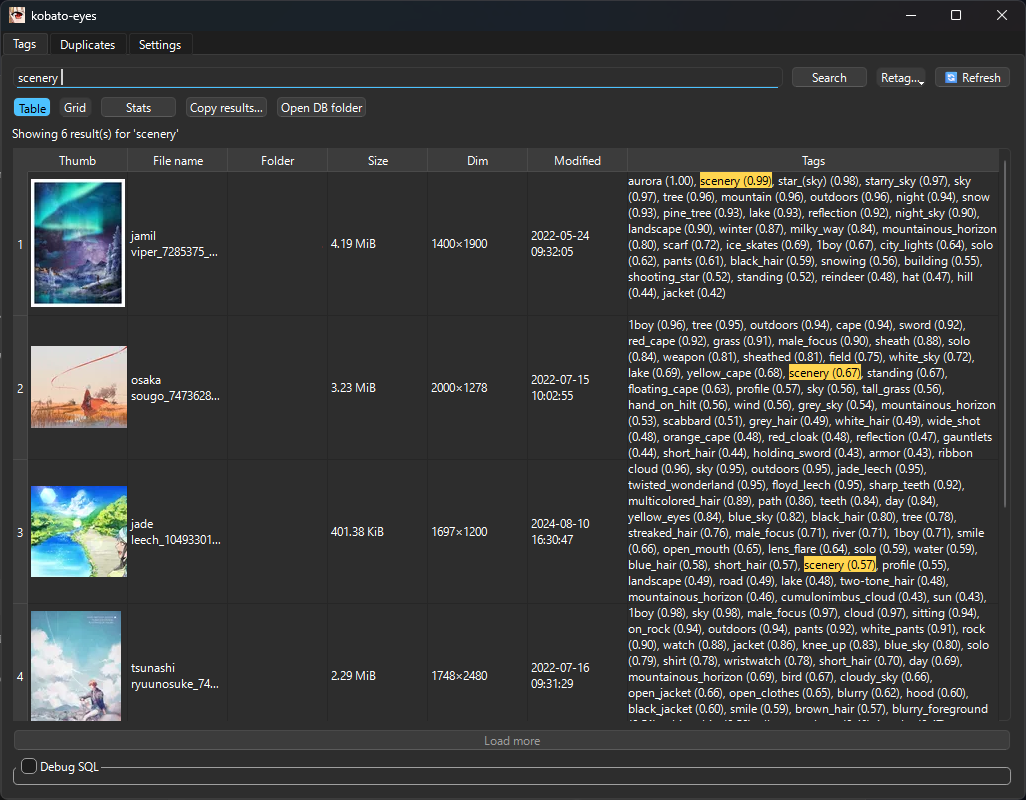
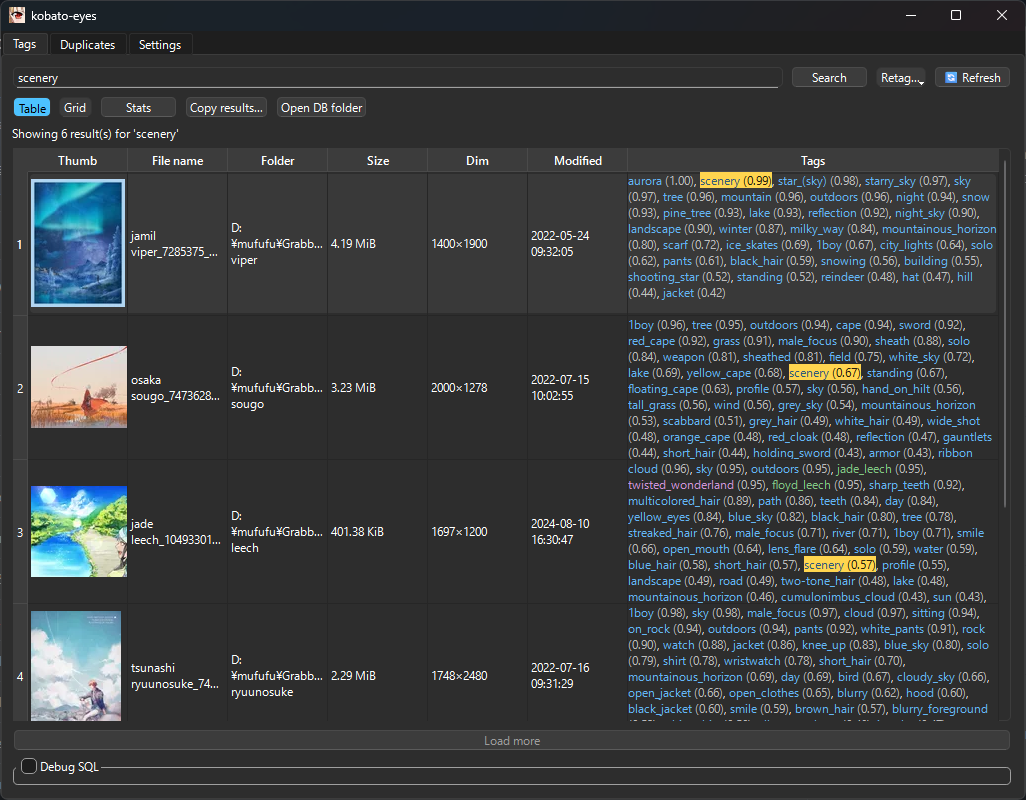
色味調整

diff --git a/src/ui/tags_tab.py b/src/ui/tags_tab.py
@@ -100,30 +100,15 @@ _PREFIXES = (
 )
 _CATEGORY_KEY_LOOKUP = build_category_lookup()
 _TAG_COLOR_MAP = {
-    TagCategory.GENERAL: "#64B5F6",
-    TagCategory.CHARACTER: "#81C784",
-    TagCategory.COPYRIGHT: "#CE93D8",
+    TagCategory.GENERAL: "#45A6F7",
+    TagCategory.CHARACTER: "#63CC69",
+    TagCategory.COPYRIGHT: "#C976D8",
 }
+_SCORE_COLOR = "rgba(255, 255, 255, 0.78)"
 _NEUTRAL_TAG_COLOR = "#90A4AE"
-_SCORE_COLOR = "rgba(255, 255, 255, 0.88)"
+_HIGHLIGHT_SCORE_COLOR = "rgba(0, 0, 0, 0.86)"
 _HIGHLIGHT_SCORE_SHADOW = "0 0 3px rgba(0, 0, 0, 0.6)"
 TagDisplayEntry = tuple[str, float, TagCategory | None]
-
-
-def _category_thresholds(settings: PipelineSettings) -> dict[TagCategory, float]:
-    th = {k.lower(): float(v) for k, v in (settings.tagger.thresholds or {}).items()}
-
-    def get(name, default=0.0):
-        return th.get(name, default)
-
-    return {
-        TagCategory.GENERAL: get("general"),
-        TagCategory.CHARACTER: get("character"),
-        TagCategory.COPYRIGHT: get("copyright"),
-        TagCategory.ARTIST: get("artist"),
-        TagCategory.META: get("meta"),
-        TagCategory.RATING: get("rating"),
-    }
 
 
 def _coerce_category(value: object) -> TagCategory | None:
@@ -219,6 +204,27 @@ def _category_color(category: TagCategory | None) -> str:
     return _TAG_COLOR_MAP.get(category, _NEUTRAL_TAG_COLOR)
 
 
+def _mix_hex(fg: str, bg: str, w: float) -> str:
+    """hex色を合成。w=1.0でfg、0.0でbg。"""
+    w = max(0.0, min(1.0, w))
+
+    def _c(h):
+        h = h.lstrip("#")
+        return int(h[0:2], 16), int(h[2:4], 16), int(h[4:6], 16)
+
+    fr, fg_, fb = _c(fg)
+    br, bg_, bb = _c(bg)
+    r = round(fr * w + br * (1 - w))
+    g = round(fg_ * w + bg_ * (1 - w))
+    b = round(fb * w + bb * (1 - w))
+    return f"#{r:02x}{g:02x}{b:02x}"
+
+
+def _darken_hex(hex_color: str, factor: float = 0.75) -> str:
+    """色を少し暗く。factorは元色の寄与率（0.7〜0.85あたり推奨）。"""
+    return _mix_hex(hex_color, "#000000", factor)
+
+
 def _render_tag_html(
     name: str,
     score: float,
@@ -232,11 +238,17 @@ def _render_tag_html(
     score_html = html.escape(f"({score:.2f})")
 
     if highlight:
-        score_style = f"color:{_SCORE_COLOR}; text-shadow:{_HIGHLIGHT_SCORE_SHADOW};"
+        # タグ名はカテゴリ色を維持、スコアは黒系。外側は背景のみ指定。
+        base = _category_color(category)  # ex. 緑/マゼンタ/青
+        name_col = _darken_hex(base, 0.5)  # 0.72〜0.80で調整可
+        name_style = f"color:{name_col};"
+        # name_style = f"color:{_category_color(category)};"
+        score_style = f"color:{_HIGHLIGHT_SCORE_COLOR};"
         return (
-            f'<span style="background-color:{highlight_bg}; color:{highlight_fg}; '
-            f'padding:0 2px; border-radius:2px;">'
-            f'{name_html} <span style="{score_style}">{score_html}</span></span>'
+            f'<span style="background-color:{highlight_bg}; padding:0 2px; border-radius:2px;">'
+            f'<span style="{name_style}">{name_html}</span> '
+            f'<span style="{score_style}">{score_html}</span>'
+            f"</span>"
         )
 
     tag_color = _category_color(category)

diff --git a/README.md b/README.md
@@ -1,5 +1,7 @@
 ![header](docs/images/header.png)
+
 # kobato-eyes
+
 ![ss](docs/images/ss-tags.png)
 
 **kobato-eyes** は、ローカル PC 上の画像に Danbooru タグを自動付与し、類似画像検出と検索を行う Windows 向けデスクトップアプリケーションです。PyQt6 を用いた GUI と SQLite + FTS5 データベースを組み合わせ、スキャンからタグ付け、検索、重複チェックまでを一貫して実行します。
